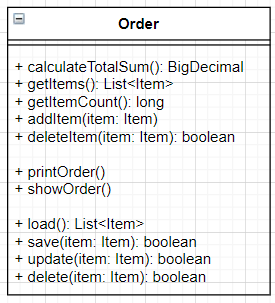
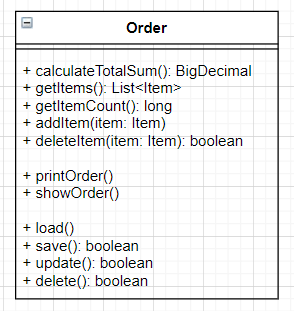
Included SRP example with solutions for classes and updated README.md

Changed region(s): [[0.0, 0.0, 1.0, 1.0]]

diff --git a/src/main/java/solid/singleresponsability/after/Order.java b/src/main/java/solid/singleresponsability/after/Order.java
@@ -1,4 +1,4 @@
-package solid.singleresponsability.before;
+package solid.singleresponsability.after;
 
 import solid.singleresponsability.Item;
 
@@ -24,30 +24,6 @@ public class Order {
     }
 
     public boolean deleteItem(Item item) {
-        return true;
-    }
-
-    public void printOrder() {
-
-    }
-
-    public void showOrder() {
-
-    }
-
-    public boolean load() {
-        return true;
-    }
-
-    public boolean save() {
-        return true;
-    }
-
-    public boolean update() {
-        return true;
-    }
-
-    public boolean delete() {
         return true;
     }
 }

diff --git a/src/main/java/solid/singleresponsability/after/OrderRepository.java b/src/main/java/solid/singleresponsability/after/OrderRepository.java
@@ -1,0 +1,20 @@
+package solid.singleresponsability.after;
+
+public class OrderRepository {
+
+    public Order load() {
+        return null;
+    }
+
+    public boolean save(Order order) {
+        return true;
+    }
+
+    public boolean update(Order order) {
+        return true;
+    }
+
+    public boolean delete(Order order) {
+        return true;
+    }
+}

diff --git a/src/main/java/solid/singleresponsability/after/OrderViewer.java b/src/main/java/solid/singleresponsability/after/OrderViewer.java
@@ -1,0 +1,12 @@
+package solid.singleresponsability.after;
+
+public class OrderViewer {
+
+    public void printOrder(Order order) {
+
+    }
+
+    public void showOrder(Order order) {
+
+    }
+}

diff --git a/src/main/java/solid/singleresponsability/Item.java b/src/main/java/solid/singleresponsability/Item.java
@@ -1,0 +1,4 @@
+package solid.singleresponsability;
+
+public class Item {
+}

diff --git a/README.md b/README.md
@@ -1,5 +1,5 @@
 <p align="center">
-      <img height=85 src="images/solid-image.png">
+    <img height=85 src="images/solid-image.png">
     <br>This repository contains examples for SOLID principles
 </p>
 
@@ -36,7 +36,29 @@ How does this principle help us to build better software? Let's see a few of its
 
 Imagine the diagram bellow and try to identify the problems:
 
-<img src="diagrams/srp-before.png" />
+<p align="center">
+    <img src="diagrams/srp-before.png" />
+</p>
+
+```java
+class Order {
+
+    public BigDecimal calculateTotalSum() { /* code */; }
+    public List<Item> getItems() { /* code */; }
+    public long getItemsCount() { /* code */; }
+    public boolean addItem(Item item) { /* code */; }
+    public boolean deleteItem(Item item) { /* code */; }
+
+    public void printOrder() { /* code */; }
+    public void showOrder() { /* code */; }
+
+    public void load() { /* code */; }
+    public void save() { /* code */; }
+    public void update() { /* code */; }
+    public void delete() { /* code */; }
+}
+
+```
 
 In this example, the class has 3 different responsibilities: store the order information, print data and manage the data/persist.
 
@@ -44,3 +66,38 @@ The example viole single-responsibility and causes some problems:
 * Low cohesion: a class shouldn't have responsibility that is not its own.
 * High couple: more responsibility, cause a lot of dependencies, making the program difficult to change.
 * Testing: Difficult for testing.
+
+Applying the SRP, we'll have this solution:
+
+<p align="center">
+    <img src="diagrams/srp-after.png" />
+</p>
+
+```java
+class Order {
+
+    public BigDecimal calculateTotalSum() { /* code */; }
+    public List<Item> getItems() { /* code */; }
+    public long getItemsCount() { /* code */; }
+    public void addItem(Item item) { /* code */; }
+    public boolean deleteItem(Item item) { /* code */; }
+}
+
+class OrderRepository {
+    
+    public Order load(UUID id) { /* code */; }
+    public boolean save(Order order) { /* code */; }
+    public boolean update(Order order) { /* code */; }
+    public boolean delete(Order order) { /* code */; }
+}
+
+class OrderViewer {
+    public void printOrder(Order order) { /* code */; }
+    public void showOrder(Order order) { /* code */; }
+}
+```
+
+Now we have 3 different classes to do each responsibility. This principle should be applied as well for methods,
+it means each method should have one responsibility.
+
+---
